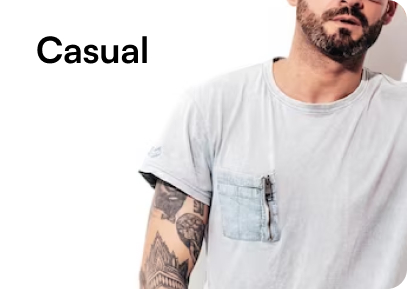
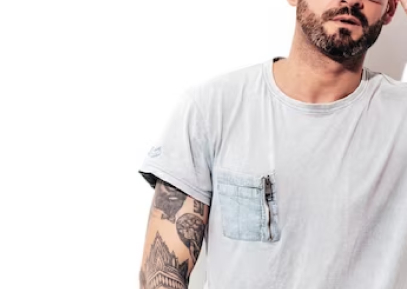
Add files via upload

Changed region(s): [[0.0885, 0.1246, 0.3833, 0.218], [0.9435, 0.9343, 1.0, 1.0], [0.973, 0.0, 1.0, 0.0623]]

diff --git a/lesson_17/index.html b/lesson_17/index.html
@@ -40,8 +40,11 @@
 									<span class="card-products__old-price">25 400 грн.</span>
 									<span class="card-products__price">15 400 грн.</span>
 								</div>
+
+
 								<div class="card-products__icons icons-card-products">
 									<a href="#" class="icons-card-products__link icons-card-products__link--favorites">
+
 										<!-- <img src="./img/favorites.svg" alt="shopping cart icon"> -->
 										<svg width="26" height="23" viewBox="0 0 26 23" fill="none" xmlns="http://www.w3.org/2000/svg">
 											<path
@@ -57,8 +60,12 @@
 												d="M14.9969 20.0163C15.3296 20.0163 15.6487 19.885 15.884 19.6514C16.1192 19.4177 16.2514 19.1008 16.2514 18.7704V16.2786C16.2514 15.9481 16.1192 15.6312 15.884 15.3976C15.6487 15.1639 15.3296 15.0327 14.9969 15.0327C14.6642 15.0327 14.3451 15.1639 14.1098 15.3976C13.8746 15.6312 13.7424 15.9481 13.7424 16.2786V18.7704C13.7424 19.1008 13.8746 19.4177 14.1098 19.6514C14.3451 19.885 14.6642 20.0163 14.9969 20.0163ZM9.97886 20.0163C10.3116 20.0163 10.6307 19.885 10.8659 19.6514C11.1012 19.4177 11.2334 19.1008 11.2334 18.7704V16.2786C11.2334 15.9481 11.1012 15.6312 10.8659 15.3976C10.6307 15.1639 10.3116 15.0327 9.97886 15.0327C9.64614 15.0327 9.32705 15.1639 9.09179 15.3976C8.85652 15.6312 8.72435 15.9481 8.72435 16.2786V18.7704C8.72435 19.1008 8.85652 19.4177 9.09179 19.6514C9.32705 19.885 9.64614 20.0163 9.97886 20.0163ZM21.2695 5.06535H19.5382L17.3679 0.766957C17.3016 0.608793 17.2032 0.465912 17.0787 0.347244C16.9543 0.228576 16.8066 0.136671 16.6447 0.0772727C16.4829 0.0178741 16.3105 -0.00774149 16.1383 0.00202672C15.9661 0.0117949 15.7977 0.0567371 15.6438 0.134044C15.4898 0.211352 15.3536 0.319363 15.2435 0.451328C15.1335 0.583293 15.0521 0.736376 15.0043 0.90101C14.9566 1.06564 14.9435 1.23829 14.966 1.40816C14.9885 1.57803 15.046 1.74148 15.1349 1.88828L16.7281 5.06535H8.24763L9.84086 1.88828C9.96263 1.59786 9.96927 1.27245 9.85946 0.977375C9.74964 0.682299 9.53149 0.439403 9.24881 0.297455C8.96613 0.155507 8.63985 0.125015 8.33547 0.212101C8.03109 0.299188 7.77115 0.497405 7.60783 0.766957L5.43753 5.06535H3.70631C2.8196 5.07875 1.96614 5.40268 1.29645 5.98002C0.62676 6.55736 0.183856 7.35101 0.0458562 8.22101C-0.0921441 9.09101 0.083624 9.98146 0.54216 10.7353C1.0007 11.4892 1.71254 12.058 2.55216 12.3415L3.48049 21.636C3.57411 22.5612 4.01158 23.4185 4.7075 24.0405C5.40341 24.6625 6.30778 25.0046 7.24403 25H17.7568C18.6931 25.0046 19.5974 24.6625 20.2934 24.0405C20.9893 23.4185 21.4267 22.5612 21.5204 21.636L22.4487 12.3415C23.2901 12.0572 24.0031 11.4862 24.4613 10.7299C24.9195 9.9735 25.0934 9.08047 24.9522 8.20897C24.8109 7.33747 24.3637 6.54374 23.6896 5.96836C23.0156 5.39298 22.1582 5.07309 21.2695 5.06535ZM18.9988 21.3868C18.9676 21.6952 18.8218 21.981 18.5898 22.1883C18.3578 22.3957 18.0564 22.5097 17.7443 22.5081H7.23148C6.9194 22.5097 6.61794 22.3957 6.38597 22.1883C6.154 21.981 6.00817 21.6952 5.97697 21.3868L5.08627 12.5408H19.8895L18.9988 21.3868ZM21.2695 10.049H3.70631C3.37359 10.049 3.0545 9.91774 2.81923 9.68408C2.58397 9.45043 2.45179 9.13353 2.45179 8.80309C2.45179 8.47266 2.58397 8.15575 2.81923 7.9221C3.0545 7.68845 3.37359 7.55718 3.70631 7.55718H21.2695C21.6022 7.55718 21.9213 7.68845 22.1565 7.9221C22.3918 8.15575 22.524 8.47266 22.524 8.80309C22.524 9.13353 22.3918 9.45043 22.1565 9.68408C21.9213 9.91774 21.6022 10.049 21.2695 10.049Z"
 												fill="#535353" />
 										</svg>
+
 									</a>
 								</div>
+
+
+
 							</div>
 						</li>
 						<li class="card-products__item">
@@ -355,7 +362,19 @@
 
 						<a class="style-dress__card" href="#!">
 							<img class="style-dress__image" src="./img/dress/01.jpg" alt="Image">
-							<h3 class="style-dress__sub-title"></h3>
+							<h3 class="style-dress__sub-title">Casual</h3>
+						</a>
+						<a class="style-dress__card" href="#!">
+							<img class="style-dress__image" src="./img/dress/02.jpg" alt="Image">
+							<h3 class="style-dress__sub-title">Formal</h3>
+						</a>
+						<a class="style-dress__card" href="#!">
+							<img class="style-dress__image" src="./img/dress/03.jpg" alt="Image">
+							<h3 class="style-dress__sub-title">Party</h3>
+						</a>
+						<a class="style-dress__card" href="#!">
+							<img class="style-dress__image" src="./img/dress/04.jpg" alt="Image">
+							<h3 class="style-dress__sub-title">Gym</h3>
 						</a>
 
 					</div>

diff --git a/lesson_17/css/style.css b/lesson_17/css/style.css
@@ -229,7 +229,7 @@ body {
 .style-dress {
 }
 .style-dress__container {
-  max-width: 1270px;
+  max-width: 1240px;
   background-color: #f0f0f0;
   border-radius: 40px;
   padding: 70px 64px 76px;
@@ -240,28 +240,80 @@ body {
 }
 .top-section-dress__title {
   font-family: "IntegralCF", sans-serif;
-  font-size: 48px;
   color: #000;
+  /* font-size: 48px; */
+  font-size: calc(25px + (48 - 25) * ((100vw - 320px) / (1240 - 320)));
+  padding-bottom: calc(34px + (64 - 34) * ((100vw - 320px) / (1240 - 320)));
   text-align: center;
-  padding-bottom: 64px;
+  /* padding-bottom: 64px; */
 }
-
 .style-dress__cards {
-  /* display: grid;
+  display: grid;
   gap: 20px;
-  grid-template-columns: 1fr auto 1fr;
-  grid-template-rows: 289px 289px; */
 }
 .style-dress__card {
+  border-radius: 20px;
+  position: relative;
+  background-color: #fff;
+  transition: box-shadow 0.3s, transform 0.4s;
 }
-
-/* .style-dress__card:nth-child(2) {
-  grid-column: 2 span;
-} */
+@media (any-hover: hover) {
+  .style-dress__card:hover {
+    box-shadow: -3px 4px 15px 0px rgba(0, 0, 0, 0.5);
+    transform: scale(1.03);
+  }
+  .style-dress__sub-title:hover {
+    color: #ffffff;
+    text-shadow: 1px 2px 5px rgb(0, 0, 0);
+  }
+}
 
 .style-dress__image {
   width: 100%;
-  
+  height: 100%;
+  object-fit: cover;
+  aspect-ratio: 1 / 1;
+  border-radius: 20px;
 }
 .style-dress__sub-title {
+  font-family: "Satoshi", sans-serif;
+  color: #000;
+  /* font-size: 36px; */
+  font-size: calc(14px + (36 - 14) * ((100vw - 320px) / (1240 - 320)));
+  font-weight: 700;
+  position: absolute;
+  /* top: 25px;
+  left: 36px; */
+  top: calc(8px + (25 - 8) * ((100vw - 320px) / (1240 - 320)));
+  left: calc(8px + (36 - 8) * ((100vw - 320px) / (1240 - 320)));
+}
+
+@media (min-width: 1199.98px) {
+  .top-section-dress__title {
+    font-size: 48px;
+    padding-bottom: 64px;
+  }
+  .style-dress__sub-title {
+    font-size: 36px;
+    top: 25px;
+    left: 36px;
+  }
+}
+
+@media (min-width: 991.98px) {
+  .style-dress__cards {
+    grid-template-columns: minmax(150px, 407px) auto minmax(150px, 407px);
+    grid-auto-rows: 289px;
+  }
+
+  .style-dress__card:nth-child(4n + 2),
+  .style-dress__card:nth-child(4n + 3) {
+    grid-column: span 2;
+  }
+}
+
+@media (min-width: 580.98px) and (max-width: 991.98px) {
+  .style-dress__cards {
+    grid-template-columns: minmax(150px, 407px) minmax(150px, 407px);
+  }
 }
